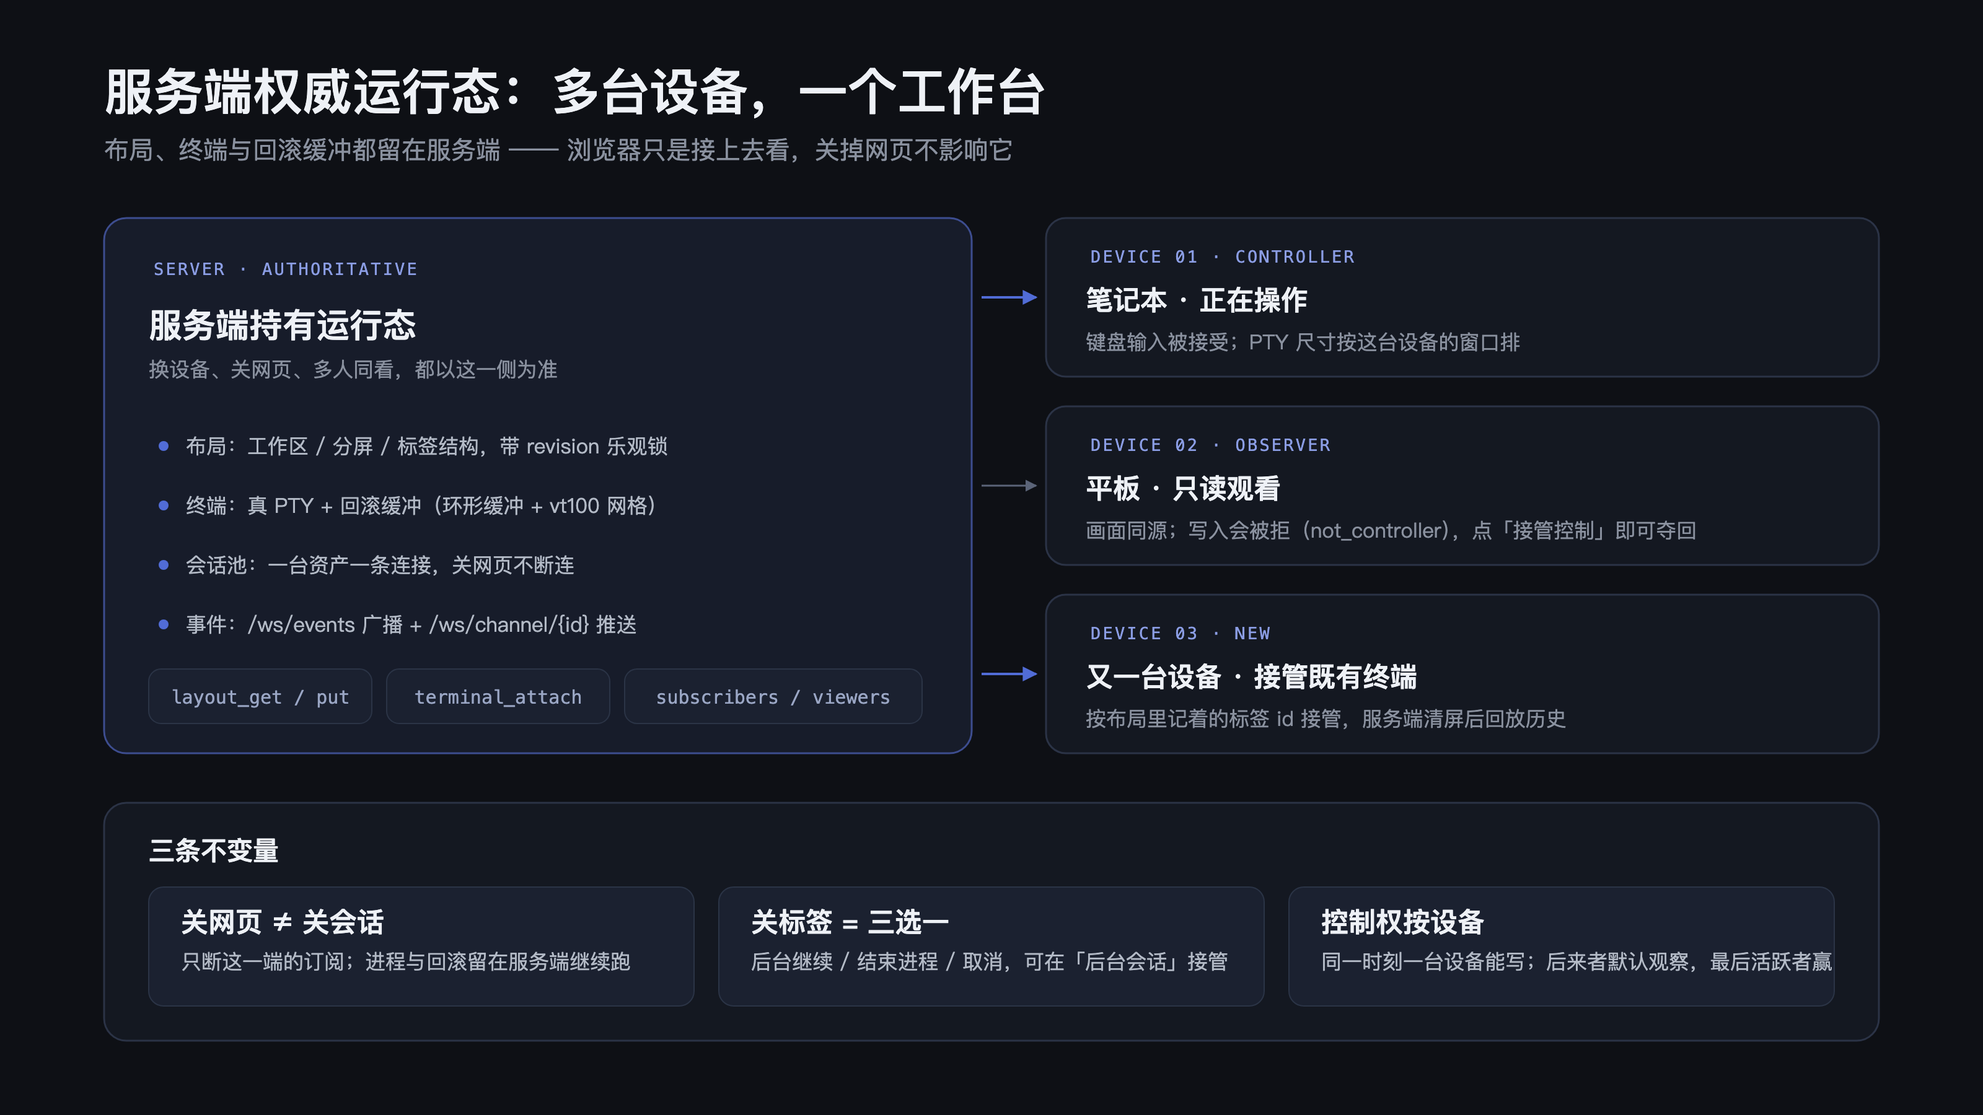
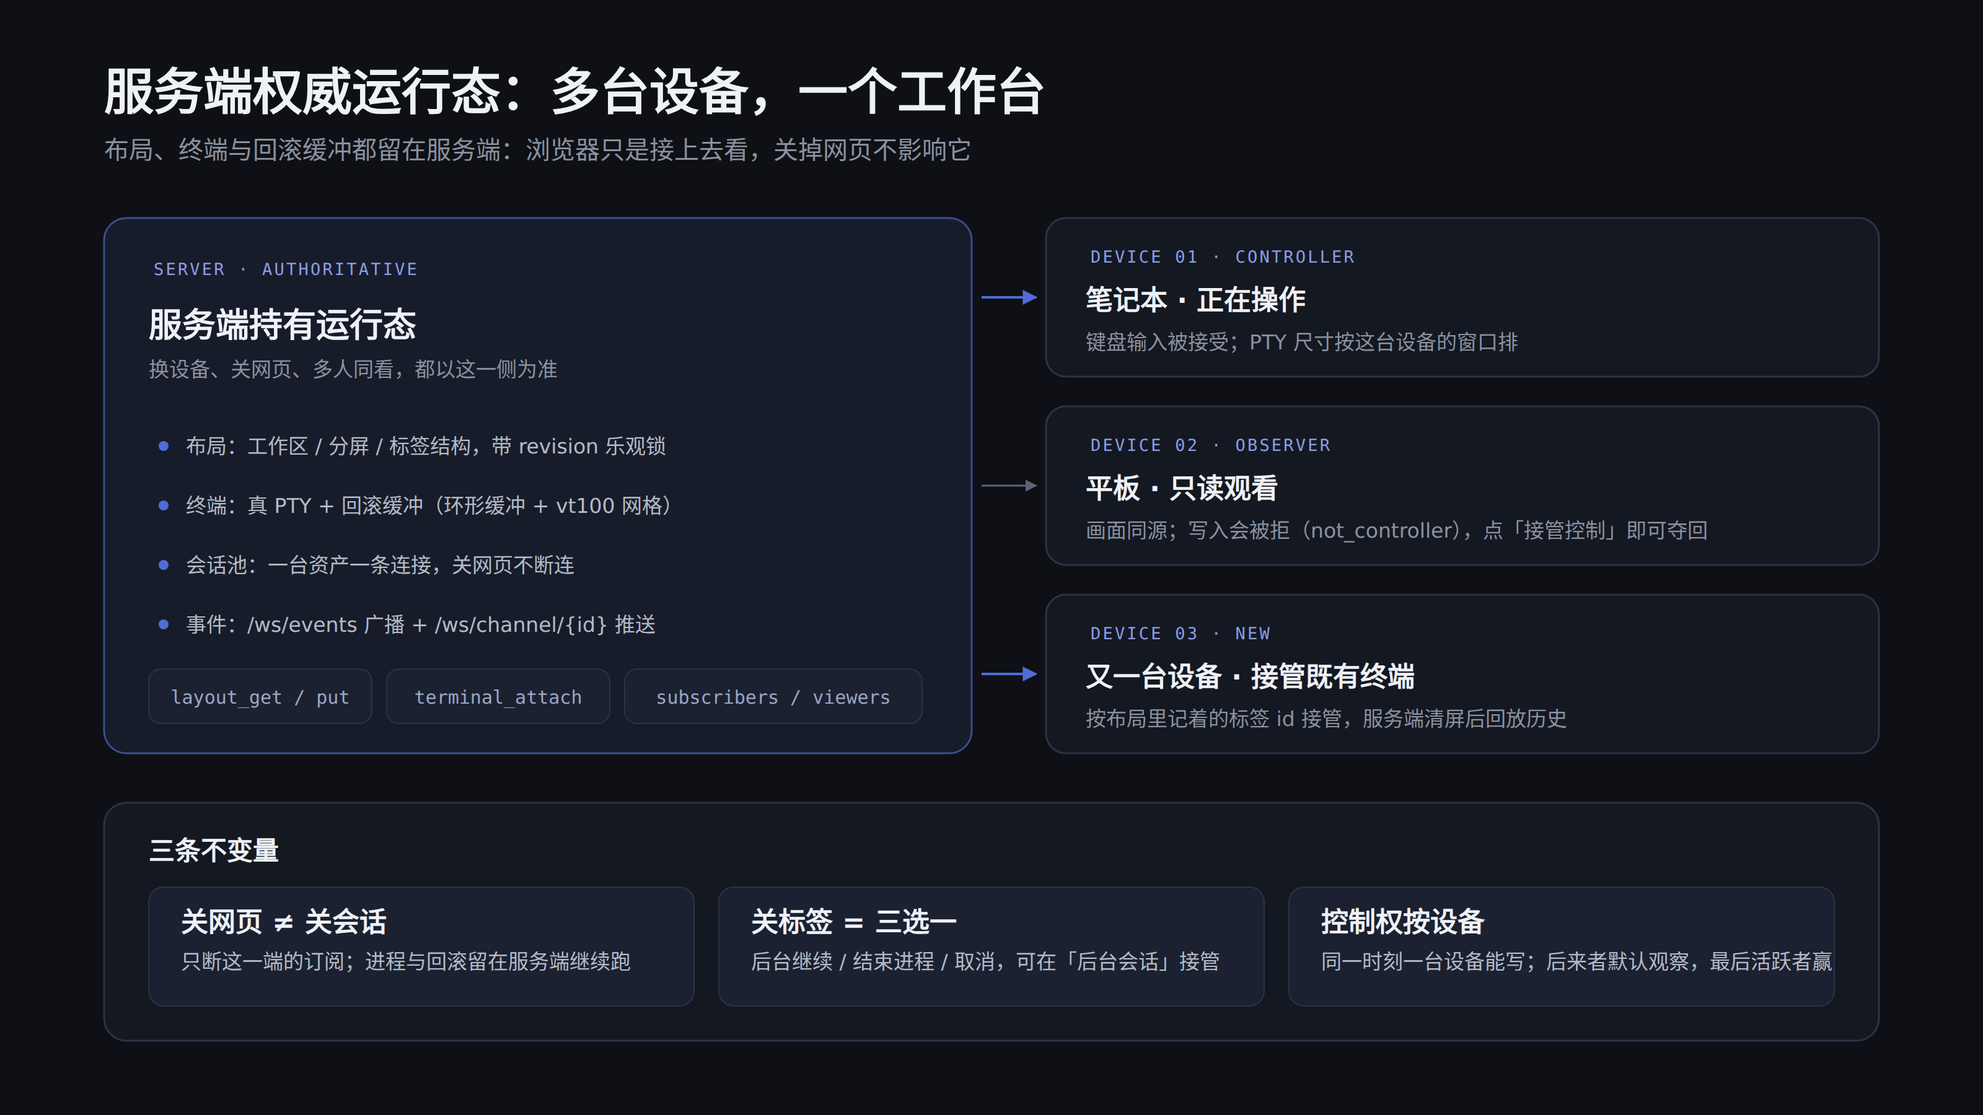
docs(website): align public copy with code, regenerate diagrams (M223)
- replace XChaCha20-Poly1305 claims with actual AES-GCM construction
  (internal/vault/crypto.go), keep accurate Argon2id statements
- qualify local-only claims by deployment model: hero meta, SECURITY
  cell and vault/API-key FAQ now say what stays on device vs server
- cover multi-user accounts, device management and sharing (bento cell
  + FAQ entry); pin Node engines to vite's ^20.19 || >=22.12
- drop review-trace og:image comment and decorative dashes from page
  and diagram sources, refresh stale CSS comment, regenerate the four
  diagram PNGs; render-diagrams.mjs honors a CHROME env override

diff --git a/website/index.html b/website/index.html
@@ -3,16 +3,14 @@
 <head>
   <meta charset="UTF-8" />
   <meta name="viewport" content="width=device-width, initial-scale=1.0" />
-  <title>NexTerm — 一体化开发运维终端</title>
+  <title>NexTerm - 一体化开发运维终端</title>
   <meta name="description" content="SSH · WinRM · 文件 · Docker · 数据库 · AI，装进同一个窗口。桌面 App 与浏览器版共用同一个 Go 内核，凭据加密存储，AI 全程在权限护栏内执行。" />
   <link rel="icon" type="image/png" href="brand/nexterm-mark-128.png" />
-  <meta property="og:title" content="NexTerm — 一体化开发运维终端" />
+  <meta property="og:title" content="NexTerm - 一体化开发运维终端" />
   <meta property="og:description" content="SSH · WinRM · 文件 · Docker · 数据库 · AI，装进同一个窗口；也能部署成服务端，浏览器打开即用。" />
   <meta property="og:type" content="website" />
   <meta property="og:site_name" content="NexTerm" />
   <meta property="og:url" content="https://probiusofficial.github.io/NexTerm/" />
-  <!-- og:image 必须是绝对地址。这张分享卡（1280×640）由 pages.yml 随站点一起发布
-       （`website/images/*.png` → `_site/images/`），此前只做了图没接上，分享时是纯文字卡。 -->
   <meta property="og:image" content="https://probiusofficial.github.io/NexTerm/images/social-preview.png" />
   <meta property="og:image:width" content="1280" />
   <meta property="og:image:height" content="640" />
@@ -59,13 +57,13 @@
         </div>
         <div class="hero-meta">
           <span>桌面版 <span class="os">Windows · macOS · Linux</span>，服务端 <span class="os">Linux / 容器</span></span>
-          <span>凭据加密存储 · 数据不出本机</span>
+          <span>凭据加密存储 · 同步内容端到端加密</span>
         </div>
       </div>
       <div class="term">
         <div class="term-bar">
           <span class="term-dot r"></span><span class="term-dot y"></span><span class="term-dot g"></span>
-          <span class="term-title">NexTerm — web-01 · SSH</span>
+          <span class="term-title">NexTerm - web-01 · SSH</span>
           <span class="term-tag">AI 接管演示</span>
         </div>
         <div class="term-body" id="heroTerm" aria-hidden="true"></div>
@@ -82,7 +80,7 @@
     </div>
 
     <div class="proto-row">
-      <span>SSH</span><span>SFTP</span><span>WinRM</span><span>ConPTY</span><span>真 PTY</span><span>Docker</span><span>MySQL</span><span>Redis</span><span>SOCKS5</span><span>Argon2id</span><span>XChaCha20</span><span>DPAPI</span><span>xterm.js</span><span>Wails</span><span>Go</span><span>WebSocket</span><span>SQLite</span>
+      <span>SSH</span><span>SFTP</span><span>WinRM</span><span>ConPTY</span><span>真 PTY</span><span>Docker</span><span>MySQL</span><span>Redis</span><span>SOCKS5</span><span>Argon2id</span><span>AES-GCM</span><span>DPAPI</span><span>xterm.js</span><span>Wails</span><span>Go</span><span>WebSocket</span><span>SQLite</span>
     </div>
   </div>
 </header>
@@ -92,7 +90,7 @@
     <div class="section-head">
       <span class="pk">nexterm --modules</span>
       <h2>一个窗口，把整套运维收进来</h2>
-      <p>不是功能堆叠，而是把命令、文件、数据与 AI 放进同一条工作流 —— 再让它跑在桌面上，也跑在服务器上。</p>
+      <p>不是功能堆叠，而是把命令、文件、数据与 AI 放进同一条工作流，让它既跑在桌面上，也跑在服务器上。</p>
     </div>
     <div class="bento">
       <div class="cell cell-lg">
@@ -103,7 +101,7 @@
           <li>只读、读写、静默三档权限随时切换</li>
           <li>终端接管可按 Esc（可改键）随时夺回</li>
           <li>写文件前先看逐行 diff，改完留变更记录</li>
-          <li>任意 OpenAI 兼容端点，密钥仅存本机</li>
+          <li>任意 OpenAI 兼容端点，密钥只存自己一侧</li>
         </ul>
         <div class="cell-shot"><img src="images/ai-permission.png" alt="AI 权限确认卡片" loading="lazy" /></div>
       </div>
@@ -133,12 +131,23 @@
         <h3>端口转发</h3>
         <p>本地转发与 SOCKS5 动态转发复用已有会话，直达内网资源。监听地址由部署形态决定：桌面回环、自建服务端对外、懒猫微服上不可用。</p>
       </div>
-      <div class="cell cell-w">
+      <div class="cell">
         <span class="tag">SECURITY</span>
-        <h3>凭据只在本机</h3>
-        <p>两级密钥信封加密，日志自动脱敏；管理面板呈现引用关系与删除保护，支持 Windows DPAPI / macOS 钥匙串免主密码模式。</p>
+        <h3>凭据加密存储</h3>
+        <p>两级密钥信封加密，日志自动脱敏；管理面板呈现引用关系与删除保护，支持 Windows DPAPI / macOS 钥匙串免主密码模式。桌面端凭据只落本机；部署成服务端时，凭据库与主密钥在服务端这一侧。</p>
         <ul>
-          <li><code>主密码 → Argon2id → KEK → 信封加密 DEK → XChaCha20-Poly1305</code></li>
+          <li><code>主密码 → Argon2id → KEK → 信封加密 DEK → AES-GCM</code></li>
+        </ul>
+      </div>
+      <div class="cell">
+        <span class="tag">TEAM</span>
+        <h3>多用户账号与设备分享</h3>
+        <p>服务端内置账号体系，同步数据按账号隔离；主机装 agent 纳入设备列表，随时远程打开终端。</p>
+        <ul>
+          <li>超管创建用户，或开放注册自助加入</li>
+          <li>主机分享给指定注册用户，有效期内随时开新终端</li>
+          <li>公开链接默认只读、限时、可撤销，访问与输入留审计</li>
+          <li>分享全程不暴露主机密码与私钥</li>
         </ul>
       </div>
     </div>
@@ -150,7 +159,7 @@
     <div class="section-head">
       <span class="pk">nexterm --forms</span>
       <h2>一个内核，两种形态</h2>
-      <p>同一个 Go 核心 —— 装在本机是桌面 App，部署到服务器就是浏览器里的运维终端。</p>
+      <p>同一个 Go 核心：装在本机是桌面 App，部署到服务器就是浏览器里的运维终端。</p>
     </div>
 
     <div class="figure">
@@ -171,7 +180,7 @@
       <div class="cell">
         <span class="tag">SERVER · GO</span>
         <h3>服务端 nexterm-server</h3>
-        <p>部署一次，随处可用。浏览器打开就是完整界面，不用装任何客户端 —— 而且运行态在服务端，不只是「投屏」。</p>
+        <p>部署一次，随处可用。浏览器打开就是完整界面，不用装任何客户端，而且运行态在服务端，不只是「投屏」。</p>
         <ul>
           <li>部署到懒猫微服 / 自建服务器</li>
           <li>终端进程与回滚缓冲留在服务端，换设备接着用</li>
@@ -189,7 +198,7 @@
     <div class="section-head">
       <span class="pk">nexterm --serve</span>
       <h2>服务端：工作台搬到服务器上</h2>
-      <p>不是「投屏」。终端进程、回滚缓冲与工作区布局都跑在那台常开的机器上，浏览器只是接上去看 —— 换设备、关网页、多人同看，都以此为准。</p>
+      <p>不是「投屏」。终端进程、回滚缓冲与工作区布局都跑在那台常开的机器上，浏览器只是接上去看；换设备、关网页、多人同看，都以此为准。</p>
     </div>
 
     <div class="figure">
@@ -230,8 +239,8 @@
         <h3>转发端口的地址，看部署形态</h3>
         <p>同一条「把远端端口搬到服务端」的功能，监听在哪由部署形态决定。</p>
         <ul>
-          <li>桌面 App：<code>127.0.0.1</code> —— 转发只给自己用</li>
-          <li>自建服务端：<code>0.0.0.0</code> —— 可把远端服务搬到服务端端口上</li>
+          <li>桌面 App：<code>127.0.0.1</code>，转发只给自己用</li>
+          <li>自建服务端：<code>0.0.0.0</code>，可把远端服务搬到服务端端口上</li>
           <li>懒猫微服：<b>不可用</b>。平台侧端口暴露无鉴权，界面直接说明并指你改用平台原生转发</li>
         </ul>
       </div>
@@ -255,7 +264,7 @@
       <div class="cell">
         <span class="tag">DIRECTION</span>
         <h3>方向显式</h3>
-        <p>分组、资产、凭据、片段整组同步，按「推送到云端」或「拉取并应用」，方向由你按按钮定 —— SSH 私钥这类载荷不做自动合并，逐对象按修订号裁决。</p>
+        <p>分组、资产、凭据、片段整组同步，按「推送到云端」或「拉取并应用」，方向由你按按钮定；SSH 私钥这类载荷不做自动合并，逐对象按修订号裁决。</p>
       </div>
       <div class="cell">
         <span class="tag">CONFLICT</span>
@@ -273,7 +282,7 @@
       <div>
         <span class="pk">nexterm --connect</span>
         <h3 class="sub-h">一个账号，两个部署位置</h3>
-        <p>在「设置 → 账号同步」填「服务端地址 + 用户名 + 密码」登录就能连上，不用管对端装在哪 —— 懒猫微服或自建服务器，账号是同一套机制。</p>
+        <p>在「设置 → 账号同步」填「服务端地址 + 用户名 + 密码」登录就能连上，不用管对端装在哪：懒猫微服或自建服务器，账号是同一套机制。</p>
         <ul class="points">
           <li><b>懒猫微服</b>：平台公网入口默认要求登录，网关注入内部链路密钥后请求才到达容器。</li>
           <li><b>自建服务器</b>：不经平台网关，直接连到服务端。</li>
@@ -320,13 +329,13 @@
           <li>服务端：<code>NexTerm-server_&lt;版本&gt;_linux_&lt;架构&gt;.tar.gz</code>，含前端、两个 systemd 单元与两份 env 示例</li>
           <li>sync-only 不是独立包：同一个二进制加 <code>--sync-only</code> 即只挂同步端点</li>
           <li>懒猫微服：在微服应用中心里安装，不经 Release 下载</li>
-          <li>从源码构建：Go 1.26 + Node 22+ + pnpm</li>
+          <li>从源码构建：Go 1.26 + Node（20.19+ 或 22.12+）+ pnpm</li>
         </ul>
       </div>
       <div class="code-block">
         <div class="term-bar">
           <span class="term-dot r"></span><span class="term-dot y"></span><span class="term-dot g"></span>
-          <span class="term-title">nexterm-server — bash</span>
+          <span class="term-title">nexterm-server - bash</span>
         </div>
         <pre><span class="c"># 完整版：界面 + 全部命令</span>
 <span class="c"># 裸启动就是 serve（容器里就这条）</span>
@@ -389,7 +398,7 @@
       </details>
       <details>
         <summary>服务端放公网安全吗？</summary>
-        <div class="faq-body">完整版默认开启账号鉴权（<code>--auth on</code>）：<code>/rpc</code>、<code>/ws</code> 与 <code>/files/blob</code> 没有登录会话一律拒绝，<code>/healthz</code> 与页面静态资源公开；浏览器首次打开会进入初始化或登录页（账号未初始化时，一次性初始化码打印在服务端控制台）。回环免登录仅限显式 <code>--auth loopback</code>（会校验 Host 防 DNS 重绑定），且不适合反代场景。会话走 Cookie，公网部署前面必须终止 TLS，并建议用防火墙限制来源。公网只想做资产同步，请用 <code>--sync-only</code> 模式 —— 它只挂账号与同步路由，不注册任何终端命令。懒猫微服上由平台登录门加网关注入的网关密钥放行内部链路，无需额外配置。</div>
+        <div class="faq-body">完整版默认开启账号鉴权（<code>--auth on</code>）：<code>/rpc</code>、<code>/ws</code> 与 <code>/files/blob</code> 没有登录会话一律拒绝，<code>/healthz</code> 与页面静态资源公开；浏览器首次打开会进入初始化或登录页（账号未初始化时，一次性初始化码打印在服务端控制台）。回环免登录仅限显式 <code>--auth loopback</code>（会校验 Host 防 DNS 重绑定），且不适合反代场景。会话走 Cookie，公网部署前面必须终止 TLS，并建议用防火墙限制来源。公网只想做资产同步，请用 <code>--sync-only</code> 模式：它只挂账号与同步路由，不注册任何终端命令。懒猫微服上由平台登录门加网关注入的网关密钥放行内部链路，无需额外配置。</div>
       </details>
       <details>
         <summary>服务端和桌面版是两套代码吗？</summary>
@@ -397,11 +406,15 @@
       </details>
       <details>
         <summary>几个人可以同时用同一台服务端吗？</summary>
-        <div class="faq-body">可以。终端能被多台设备一起看，但同一时刻只有一台能操作：控制权认的是<em>设备身份</em>（存在浏览器本地，同一台设备多开几个页面算同一台），后来者默认是观察者，点「接管控制」即可夺得键盘，原操作者当场转为只读。关闭标签时会问一次 —— 后台继续运行、结束进程、取消，选「后台继续运行」的会话可以在「后台会话」面板里重新接管。</div>
+        <div class="faq-body">可以。终端能被多台设备一起看，但同一时刻只有一台能操作：控制权认的是<em>设备身份</em>（存在浏览器本地，同一台设备多开几个页面算同一台），后来者默认是观察者，点「接管控制」即可夺得键盘，原操作者当场转为只读。关闭标签时会问一次：后台继续运行、结束进程、取消，选「后台继续运行」的会话可以在「后台会话」面板里重新接管。</div>
+      </details>
+      <details>
+        <summary>支持多用户、设备管理与分享吗？</summary>
+        <div class="faq-body">服务端内置多用户账号：超管初始化后创建用户，或开放注册让同事自助加入；各账号的同步数据互相隔离。主机安装 agent 后进入设备列表，可远程打开设备终端。主机可以分享给指定注册用户，对方在有效期内随时开新终端；也可以生成公开链接，默认只读、限时、可撤销，访问与输入都留审计。两种分享全程不暴露主机密码与私钥。</div>
       </details>
       <details>
         <summary>懒猫微服上的端口转发为什么不可用？</summary>
-        <div class="faq-body">平台提供的端口暴露是<em>裸 TCP</em>，且平台文档写明「从原理上无法提供鉴权流程」—— 应用侧补不上这个洞。所以在这个平台上这一功能被关闭，界面会直接说明并建议改用微服平台自带的转发功能，而不是画一个连不上的地址。自建服务端上转发正常可用，监听 <code>0.0.0.0</code>，可以把远端 <code>127.0.0.1</code> 上的服务搬到服务端端口上访问。</div>
+        <div class="faq-body">平台提供的端口暴露是<em>裸 TCP</em>，且平台文档写明「从原理上无法提供鉴权流程」，应用侧补不上这个洞。所以在这个平台上这一功能被关闭，界面会直接说明并建议改用微服平台自带的转发功能，而不是画一个连不上的地址。自建服务端上转发正常可用，监听 <code>0.0.0.0</code>，可以把远端 <code>127.0.0.1</code> 上的服务搬到服务端端口上访问。</div>
       </details>
       <details>
         <summary>同步会把我的密码传到别人的服务器吗？</summary>
@@ -409,11 +422,11 @@
       </details>
       <details>
         <summary>凭据如何保护？</summary>
-        <div class="faq-body">主密码经 Argon2id 派生密钥，凭据以 XChaCha20-Poly1305 信封加密存储；可选 Windows DPAPI / macOS 钥匙串免主密码模式；日志输出统一脱敏。</div>
+        <div class="faq-body">主密码经 Argon2id 派生密钥，凭据以 AES-GCM 信封加密存储；可选 Windows DPAPI / macOS 钥匙串免主密码模式；日志输出统一脱敏。桌面端凭据只存在本机；部署成服务端时，凭据库与主密钥在服务端这一侧。</div>
       </details>
       <details>
         <summary>AI 助手接入什么模型？</summary>
-        <div class="faq-body">任意 OpenAI 兼容端点均可接入，API 密钥仅保存在本机，不经过任何第三方服务。</div>
+        <div class="faq-body">任意 OpenAI 兼容端点均可接入。API 密钥保存在运行 NexTerm 的这一侧：桌面版在本机，服务端部署时在你的服务端；密钥只发往你配置的模型端点，不经第三方中转。</div>
       </details>
       <details>
         <summary>采用什么开源协议？</summary>
@@ -480,12 +493,12 @@
 
   var steps = [
     function () { return typeCmd("systemctl status api-server"); },
-    function () { out("● api-server.service — API 服务", 420); return sleep(420); },
+    function () { out("● api-server.service - API 服务", 420); return sleep(420); },
     function () { out("   Active: active (running) since 09:12 · 已运行 3h", 600); return sleep(600); },
     function () { return typeCmd("docker logs --tail 1 api-server"); },
     function () { out('10.0.0.8 - "GET /healthz 200" 3ms', 900); return sleep(900); },
     function () { return typeCmd(""); },
-    function () { line('<span class="warn">── AI 请求接管终端 ──────────────────</span>'); return sleep(650); },
+    function () { line('<span class="warn">---- AI 请求接管终端 ----</span>'); return sleep(650); },
     function () { line('<span class="info">   docker restart api-server</span>'); return sleep(650); },
     function () { line('<span class="d">   〔允许本次〕〔本会话允许〕〔拒绝〕 → 允许本次</span>'); return sleep(950); },
     function () { line('<span class="ok">✓ 已执行 · 退出码 0 · 2.1s · 按 Esc（可改键）夺回</span>'); return sleep(700); },

diff --git a/website/style.css b/website/style.css
@@ -438,9 +438,8 @@ img { max-width: 100%; display: block; }
 
 /* 不可断的词（文件名之类）：`linux-amd64.tar.gz` 会在 `-` 处折成两行，把整行排版撕开。
    但**不能**图省事把它挂到上面那条通用规则上：不折行的标记会把自己的整宽计入
-   min-content，写长了直接顶开网格轨道。实测把 SECURITY 那条
-   `主密码 → Argon2id → …XChaCha20-Poly1305`（54 字符 ≈ 486px）一起 nowrap 之后，
-   `.bento` 的单列轨道从 342 被撑到 486px，整节横向溢出 120px。
+   min-content，写长了直接顶开网格轨道。实测把 SECURITY 那条长密码学链条一起 nowrap
+   之后，`.bento` 的单列轨道被撑宽、整节横向溢出。
    所以文件名这类长串改成**可断行的 mono 行**（下面 .file），而不是 nowrap 的 chip。 */
 
 /* 卡片底部的产物文件名：mono 但**不是** chip（无底色/内边距，允许断行）。
